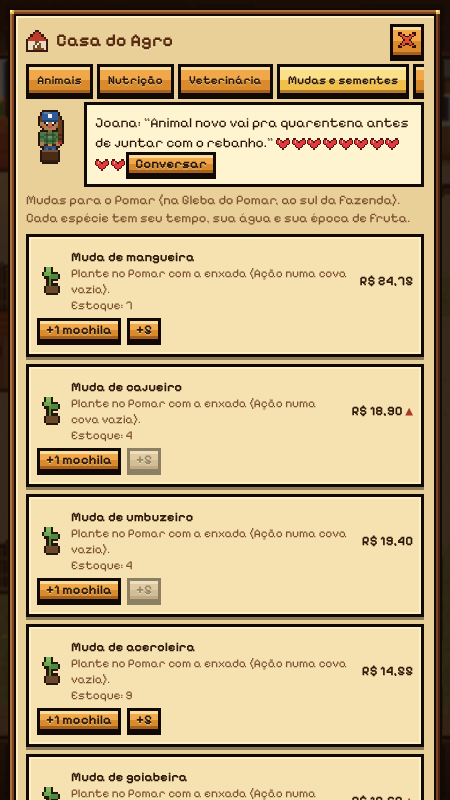
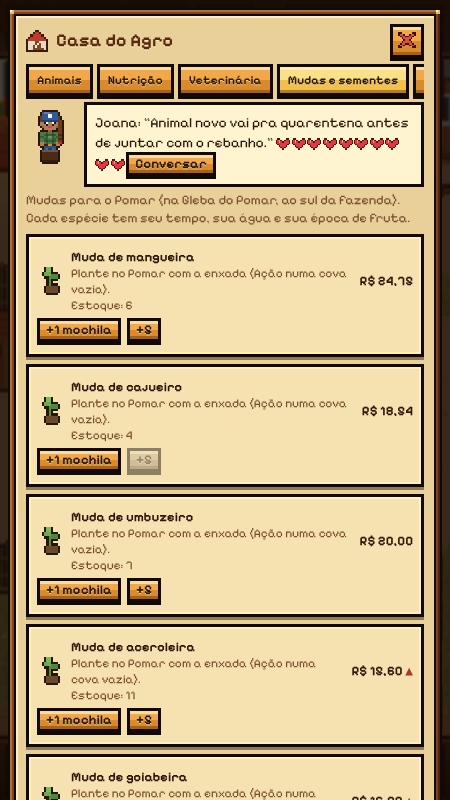
feat: IA dos animais por espécie, painel de produção e rodízio de raças dos comerciantes
Mega atualização (etapas 3, 4 e 5):
- IA: filhotes brincam perto da mãe, contato social entre animais da mesma
  espécie, cabras vão ao aprisco e porcos ao abrigo no calor e à noite,
  lotação gera estresse (menos ganho de peso, aviso); nível de detalhe em 3
  faixas por distância (60 fps com 40 animais no teste).
- Painel Produção (Menu): entradas e saídas dos últimos 7 dias pelo livro
  caixa, plantel e valor, produção estimada por dia, guia econômico por
  criação com investimento, custos, tempo, venda, rentabilidade e riscos.
- Comerciantes: Sr. Felipe e Sr. Ryan escolhem a raça-foco da semana por
  preferência, demanda por raça na região, estação, orçamento, histórico
  de vendas e novidade; o estoque segue o foco; notícia e motivo na
  negociação.
- Avisos na tela limitados a 4.

Design: design/level/pomar.md

Claude-Session: https://claude.ai/code/session_019QA4KfsXCLeXJkXGqj3TGQ

diff --git a/web/index.html b/web/index.html
@@ -359,7 +359,7 @@ const EMO_IC = { '🐄': 'cow', '🐕': 'dog', '🐎': 'horse', '🐴': 'horse',
 const noEmo = t => String(t).replace(EMO_RE, '').replace(/^\s+/, '');
 function emoHTML(h) { return String(h).replace(/✅|✔?/gu, '<b style="color:#2a7a2a">✓</b>').replace(/⭐/gu, '★').replace(/⚠?/gu, '<b style="color:#b02020">!</b>').replace(EMO_RE, m => { const k = m.trim().replace(/\uFE0F/g, ''); return EMO_IC[k] && typeof ic === 'function' ? ic(EMO_IC[k], 14) + ' ' : ''; }); }
 function say(t, ms) { const m = $('msg'); t = noEmo(t); m.textContent = t; m.classList.add('on'); msgT = ms || 3500; }
-function toast(t) { const d = document.createElement('div'); d.textContent = noEmo(t).replace(/^\s*([!✓])?/, '$1'); $('toast').appendChild(d); setTimeout(() => d.remove(), 2700); }
+function toast(t) { const box = $('toast'), d = document.createElement('div'); d.textContent = noEmo(t).replace(/^\s*([!✓])?/, '$1'); box.appendChild(d); while (box.children.length > 4) box.firstChild.remove(); setTimeout(() => d.remove(), 2700); } // no máximo 4 avisos na tela
 const shownTips = {};
 function tip(k, t) { if (S && S.flags['tip_' + k]) return; if (S) S.flags['tip_' + k] = 1; say(t, 6500); }
 
@@ -3810,11 +3810,11 @@ function dayTick() { storyCheck(); regionDay(); missionDay();
     if (a.sp === 'boi') {
       const eat = cl(a.dayFood / 100, 0, 1.2);
       let gain = (B.gain || 1) * (0.25 + 0.55 * eat) * (a.ration ? 1.45 : 1) * (a.area === 'conf' && built('cocho') ? 1.25 : 1) * (0.8 + a.gen / 250) * (a.hp / 100) * (1 + skill('pec') * 0.05) * (a.skills.includes('Ganho de Peso') ? 1.15 : 1) * (se && !a.ration ? 0.7 : 1);
-      if (a.age < 12) gain *= 1.6;
+      if (a.age < 12) gain *= 1.6; if (a.stress > 40) gain *= 0.8;
       if (a.food < 15) gain = -2.5;
       const cap = a.sex === 'M' ? 900 : 560; a.wt = Math.round(cl(a.wt + gain * 2.2, 30, cap) * 10) / 10;
     }
-    if (a.sp === 'porco') { const eat = cl(a.dayFood / 100, 0, 1.2), z = (PIGS[a.br] || {}).size || 1; let g = ((PIGS[a.br] || {}).gain || 1) * (0.3 + 0.7 * eat) * (a.ration ? 1.4 : 1) * (a.age < 14 ? 1 : 0.25) * (0.8 + a.gen / 250) * (a.hp / 100) * 7; if (a.food < 15) g = -1.5; a.wt = Math.round(cl(a.wt + g, 1.5, (a.sex === 'M' ? 170 : 155) * z) * 10) / 10; }
+    if (a.sp === 'porco') { const eat = cl(a.dayFood / 100, 0, 1.2), z = (PIGS[a.br] || {}).size || 1; let g = ((PIGS[a.br] || {}).gain || 1) * (0.3 + 0.7 * eat) * (a.ration ? 1.4 : 1) * (a.age < 14 ? 1 : 0.25) * (0.8 + a.gen / 250) * (a.hp / 100) * 7; if (a.stress > 40) g *= 0.8; if (a.food < 15) g = -1.5; a.wt = Math.round(cl(a.wt + g, 1.5, (a.sex === 'M' ? 170 : 155) * z) * 10) / 10; }
     a.cond = cl(a.cond + (a._ran || 0) / 400 - 0.4, 0, 100); a._ran = 0;
     a.dayFood = 0; a.ration = 0;
     if (a.lact > 0) a.lact--;
@@ -3843,7 +3843,7 @@ function dayTick() { storyCheck(); regionDay(); missionDay();
   // galinhas: pintinhos
   const hens = S.animals.filter(a => a.sp === 'galinha' && a.own === 'player'), cap = 10 + (built('galinheiro') ? 12 : 0);
   if (hens.some(h => h.sex === 'M') && hens.length < cap) for (const h of hens) if (h.sex === 'F' && h.skills.includes('Choca') && Math.random() < 0.08) { const c = mkAnimal('galinha', h.br, { age: 0, mae: h.n, x: h.x, y: h.y }); S.animals.push(c); toast('🐤 Nasceu um pintinho!'); break; }
-  pomarDay();
+  pomarDay(); crowdDay();
   // esterco: chiqueiro e aprisco enchem a esterqueira (sacos de 20 kg)
   { const pg = S.animals.filter(a => a.own === 'player' && a.sp === 'porco' && a.area === 'chiq').length, gt2 = S.animals.filter(a => a.own === 'player' && a.sp === 'cabra' && a.area === 'aprisco').length; S.esterco = Math.min(40, (S.esterco || 0) + pg * 0.35 + gt2 * 0.12); if (pg) S.dirt.chiq = cl((S.dirt.chiq || 0) + pg * 2, 0, 100); }
   // pastos: dias de descanso
@@ -3857,17 +3857,45 @@ function dayTick() { storyCheck(); regionDay(); missionDay();
   if (S.day % 7 === 1) payWorkers();
   if (S.day % 3 === 0) genCandidates();
   // NPCs: estoque de animais e favores vencidos
-  restockNpc('felipe', 'campos', 'boi', ['nelore', 'nelore', 'guzera', 'gir', 'tabapua']);
+  merchWeek(); restockNpc('felipe', 'campos', 'boi', ['nelore', 'nelore', 'guzera', 'gir', 'tabapua']);
   restockNpc('ryan', 'duarte', null, null);
   for (const id in S.npcs) { const s = S.npcs[id], q = s.quest; if (q && q.due < S.day) { s.quest = null; addFr(id, -30); remember(id, 'ficou chateado: favor não cumprido'); if (q.aid) S.animals = S.animals.filter(a => a.id !== q.aid); toast('😕 ' + NPCDEF[id].n + ' ficou chateado(a): favor não cumprido.'); } }
   if (S.event && S.event.day < S.day) S.event = null;
   P.en = cl(P.en, 0, 100);
 }
+/* ============ COMERCIANTES: rodízio de raças por estratégia (semanal) ============ */
+// Cada comerciante escolhe a raça-foco da semana pesando: preferência própria, demanda regional, estação,
+// orçamento, o que vendeu bem (histórico) e novidade. O estoque de animais dele passa a seguir o foco.
+const MERCH = {
+  felipe: { sp: 'boi', farm: 'campos', area: 'campos', brs: ['nelore', 'guzera', 'tabapua', 'gir', 'brahman', 'angus', 'senepol', 'girolando'], pref: { nelore: 1.15, guzera: 1.1, tabapua: 1.05, gir: 0.95, brahman: 1, angus: 0.8, senepol: 0.85, girolando: 0.8 }, style: 'tradicional: aposta no que conhece e só muda com bom motivo', stick: 1.06 },
+  ryan: { sp: 'equino', farm: 'duarte', area: 'duarte', brs: ['mm', 'qm', 'campolina', 'crioulo', 'pampa', 'nordestino', 'arabe', 'paint', 'appaloosa'], pref: { mm: 1.2, qm: 1.25, campolina: 1.05, crioulo: 0.95, pampa: 1, nordestino: 0.9, arabe: 0.85, paint: 1, appaloosa: 0.9 }, style: 'negociante: gosta de novidade e segue a vaquejada', stick: 1.05 }
+};
+function merchS(id) { S.merch = S.merch || {}; if (!S.merch[id]) S.merch[id] = { focus: MERCH[id].brs[0], since: 0, sold: {}, why: 'É o que ele sempre criou.', wk: -1 }; return S.merch[id]; }
+function merchSeasonF(id, br) { const se = season(), B = MERCH[id].sp === 'boi' ? CATTLE[br] : HORSES[br]; if (!B) return 1; if (MERCH[id].sp === 'boi') return se ? ((B.rust || 1) >= 1 ? 1.15 : 0.85) : ((B.gain || 1) > 1.08 ? 1.12 : 1); return se ? (B.rec > 20 ? 1.1 : 0.95) : (B.ac > 2.5 ? 1.1 : 1); }
+function merchWeek() {
+  const wk = typeof agroWeek === 'function' ? agroWeek() : Math.floor(S.day / 7); regionInit();
+  for (const id in MERCH) { const M0 = MERCH[id], st = merchS(id); if (st.wk === wk) continue; st.wk = wk;
+    const F = FARMS[M0.farm], money = S.region.farms[M0.farm] ? S.region.farms[M0.farm].money : 20000, dem = S.region.demand[M0.sp === 'boi' ? 'boi' : 'cavalo'] || 1;
+    const BD = S.region.bdem = S.region.bdem || {}; for (const br of M0.brs) BD[br] = cl((BD[br] || 1) + (Math.random() - 0.5) * 0.16 - ((BD[br] || 1) - 1) * 0.2, 0.75, 1.3); // procura por raça na região (sobe e desce)
+    let best = null, bs = -1, why = '';
+    for (const br of M0.brs) { const cost = M0.sp === 'boi' ? (CATTLE[br].p || 1) : (HORSES[br].cost / 20); if (cost > 1.25 && money < 30000) continue; // sem caixa para genética cara
+      const sold = st.sold[br] || 0, sc = M0.pref[br] * dem * merchSeasonF(id, br) * (1 + Math.min(0.6, sold * 0.2)) * (br === st.focus ? M0.stick : 1) * (0.9 + Math.random() * 0.25) * (br !== st.focus && wk - st.since >= 2 ? 1.2 : 1) * BD[br];
+      if (sc > bs) { bs = sc; best = br; why = sold >= 2 ? 'vendeu bem para você e a procura continua' : BD[br] > 1.15 ? 'a procura por essa raça subiu na região' : merchSeasonF(id, br) > 1.05 ? (season() ? 'aguenta melhor a seca' : 'engorda rápido nas águas') : br === st.focus ? 'continua dando resultado' : dem > 1.08 ? 'a região está procurando' : 'quer variar o plantel'; } }
+    if (best && best !== st.focus) { st.focus = best; st.since = wk; st.why = why; const nm = M0.sp === 'boi' ? CATTLE[best].n : HORSES[best].n; regionNews(`${NPCDEF[id].n} agora está trazendo ${nm}: ${why}.`); remember(id, 'passou a trabalhar com ' + nm); }
+    else if (best) st.why = why;
+    // troca parte do estoque pela raça-foco (vende um antigo, traz um novo)
+    const own = S.animals.filter(a => a.own === id && !a.mis), off = own.filter(a => a.br !== st.focus);
+    if (off.length > 2 && own.length >= 4 && Math.random() < 0.6) { const a = pick(off); S.animals = S.animals.filter(b => b !== a); }
+    if (S.animals.filter(a => a.own === id).length < 7) { const sp = M0.sp === 'boi' ? 'boi' : 'cavalo', a = mkAnimal(sp, st.focus, { own: id, age: rint(14, 40) }), q = randIn(M0.area); a.x = q[0]; a.y = q[1]; S.animals.push(a); }
+  }
+}
 function restockNpc(id, area, sp, brs) {
   const own = S.animals.filter(a => a.own === id);
   if (own.length >= 6) return;
   let a;
-  if (sp === 'boi') a = mkAnimal('boi', pick(brs), { own: id, age: rint(14, 40) });
+  const fc = S.merch && S.merch[id] ? S.merch[id].focus : null;
+  if (sp === 'boi') a = mkAnimal('boi', fc && Math.random() < 0.7 ? fc : pick(brs), { own: id, age: rint(14, 40) });
+  else if (fc && HORSES[fc] && Math.random() < 0.6) a = mkAnimal('cavalo', fc, { own: id });
   else { const r = Math.random(); a = r < .55 ? mkAnimal('cavalo', pick(Object.keys(HORSES)), { own: id }) : r < .8 ? mkAnimal('jumento', pick(Object.keys(DONKEYS)), { own: id }) : mkAnimal('burro', pick(Object.keys(MULES)), { own: id, sex: 'M' }); }
   const p = randIn(area); a.x = p[0]; a.y = p[1]; S.animals.push(a);
 }
@@ -3919,6 +3947,7 @@ function decide(a) {
   const herd = a.sp === 'boi' || a.sp === 'cabra', hc = herd ? herdCenter(a) : null, far = hc && hyp(hc.x - a.x, hc.y - a.y) > 56;
   // noite: o rebanho deita junto (quem está longe vai para perto dos outros antes de deitar)
   if (h >= 20.5 || h < 5) { if (far) return setGo(a, { x: hc.x + rnd(-18, 18), y: hc.y + rnd(-10, 10) }, 'rest', rnd(30, 60)); a._st = 'rest'; a._t = rnd(30, 60); return; }
+  if ((a.sp === 'cabra' && a.area === 'aprisco') || (a.sp === 'porco' && a.area === 'chiq')) { const hot = h > 11 && h < 15 && !isRain(); if (hot || h >= 19.5 || h < 5.5 || isRain()) { if (Math.random() < 0.6) { const sh = a.sp === 'cabra' ? [53 + Math.random() * 3, 104.3] : [44.5 + Math.random() * 4, 98.3]; return setGo(a, { x: sh[0] * TS, y: sh[1] * TS }, 'rest', rnd(15, 40)); } } }
   if (a.sp === 'porco') { if ((h > 10.5 && h < 16 && !isRain() && Math.random() < 0.5) || (a.food > 85 && Math.random() < 0.4)) { const m = findMud(a); if (m) return setGo(a, m, 'rest', rnd(14, 26)); } if (Math.random() < 0.35) { const t2 = [a.x + rnd(-30, 30), a.y + rnd(-20, 20)]; if (!a.area || areaAt(t2[0], t2[1]) === a.area) return setGo(a, { x: t2[0], y: t2[1] }, 'graze', rnd(4, 9)); } } // fuçar
   // chuva forte e tempestade: procura abrigo debaixo de árvore
   if (S.weather === 'tempestade' || (isRain() && Math.random() < 0.35)) { const s = findShade(a); if (s) return setGo(a, s, 'idle', rnd(12, 24)); }
@@ -3927,6 +3956,10 @@ function decide(a) {
   if (a.water < (hot ? 55 : 40)) { const w = findWater(a); if (w) return setGo(a, w, 'drink', 3); }
   if (herd && a.water < 78) { const l = herdLeader(a); if (l && l !== a && l._st === 'go' && l._then === 'drink') { const w = findWater(a); if (w) return setGo(a, w, 'drink', 3); } }
   if (a.food < 75) { const f = findFeed(a); if (f) return setGo(a, f, 'eat', 4); }
+  // filhote brinca: corrida curta perto da mãe ou dos irmãos
+  if (a.age < 8 && a.sp !== 'galinha' && Math.random() < 0.18) { const m = motherOf(a) || a; const t = [m.x + rnd(-40, 40), m.y + rnd(-24, 24)]; if (!a.area || areaAt(t[0], t[1]) === a.area) { a._st = 'play'; a._tg = t; a._t = rnd(1.5, 3); return; } }
+  // contato social: dois animais da mesma espécie se encontram e ficam um de frente para o outro
+  if (a.age >= 8 && Math.random() < 0.1) { const b = near(a.x, a.y, 34).find(o => o !== a && o.sp === a.sp && o.own === a.own && !o._hid && (o._st === 'idle' || o._st === 'graze' || !o._st)); if (b) { a._st = 'social'; a._mate = b.id; a._t = rnd(3, 6); b._st = 'social'; b._mate = a.id; b._t = a._t; if (a.sp === 'porco' && AU.oink) AU.oink(a.x, a.y, 1.1); else if (a.sp === 'cabra' && AU.bleat && Math.random() < 0.4) AU.bleat(a.x, a.y, 1); return; } }
   // filhote acompanha a mãe
   if (a.age < 8) { const m = motherOf(a); if (m && !m._hid && hyp(m.x - a.x, m.y - a.y) > 30) return setGo(a, { x: m.x + rnd(-10, 10), y: m.y + rnd(4, 10) }, m._st === 'rest' ? 'rest' : 'graze', rnd(4, 8)); }
   // barriga cheia: deita para ruminar
@@ -4333,7 +4366,7 @@ function updAnimals(dt, gm) {
   const cx = cam.x + VW() / 2, cy = cam.y + VH() / 2, R = Math.max(VW(), VH()) * 0.75 + 160;
   for (const a of S.animals) {
     const far = hyp(a.x - cx, a.y - cy) > R && a.id !== P.mnt && lasso.t !== a && P.lead !== a.id && S.cart.hitch !== a.id && a._st !== 'route' && a.sp !== 'cao';
-    if (far) { a._lod = (a._lod || 0) + dt; a._lgm = (a._lgm || 0) + gm; if (a._lod < 0.2) continue; updAnimal(a, a._lod, a._lgm, th); a._lod = 0; a._lgm = 0; continue; }
+    if (far) { a._lod = (a._lod || 0) + dt; a._lgm = (a._lgm || 0) + gm; if (a._lod < (hyp(a.x - cx, a.y - cy) > R * 2.2 ? 1 : 0.2)) continue; updAnimal(a, a._lod, a._lgm, th); a._lod = 0; a._lgm = 0; continue; }
     if (a._lod) { gm += 0; }
     updAnimal(a, dt, gm + (a._lgm || 0), th); a._lgm = 0; a._lod = 0; separate(a);
   }
@@ -4476,6 +4509,8 @@ function calmStep(a, dt, gm) {
     case 'rest': a._pose = a.sp === 'boi' || a.sp === 'cabra' || a.sp === 'porco' ? 'lie' : 'idle'; if (a._t <= 0) a._st = null; if ((hour() >= 20.5 || hour() < 5) && a._t <= 0) { a._st = 'rest'; a._t = 20; } return;
     case 'drink': a._pose = 'drink'; if (a._t <= 0) a._st = null; return;
     case 'eat': a._pose = 'graze'; if (a._t <= 0) a._st = null; return;
+    case 'play': { const r = stepTo(a, a._tg[0], a._tg[1], animalSpeed(a) * 2.6, dt); a._pose = 'run'; a._run = 1; a._vx = (a._hx || 0) * a._mv; a._vy = (a._hy || 0) * a._mv; if (r === true || r === 'stuck' || a._t <= 0) { a._run = 0; a._st = Math.random() < 0.5 ? null : 'idle'; a._t = rnd(1, 3); } return; }
+    case 'social': { a._pose = 'idle'; const b = byId(a._mate); if (b) { const dx = b.x - a.x; a.f = dx > 0 ? 1 : -1; } if (a._t <= 0) { a._st = null; a._mate = null; } return; }
     case 'idle': a._pose = 'idle'; if (a._curious) { const dx = P.x - a.x, dy = P.y - a.y; a._face = Math.abs(dx) > Math.abs(dy) ? (dx > 0 ? 3 : 2) : (dy > 0 ? 0 : 1); a.f = dx > 0 ? 1 : -1; } if (a._t <= 0) { a._st = null; a._curious = 0; a._face = null; } return;
     case 'follow': case 'come': case 'route': return; // tratados em updAnimal
     default: if (!traitCalm(a)) decide(a); a._pose = 'idle';
@@ -5397,7 +5432,7 @@ A.bagSel = v => { M.sel = v; renderModal(); AU.click(); };
 A.eat = v => { const it = IT[v]; if (!has(v)) return; closeModal(); act('eat', 0.9, null, () => { useInv(v); P.en = cl(P.en + (it.en || 0), 0, 100); P.fo = cl(P.fo + (it.fo || 0), 0, 100); AU.munch(); toast(`+${it.en || 0} energia · +${it.fo || 0} fome`); }, { zoom: 1.2 }); };
 A.drop = v => { useInv(v); renderModal(); };
 /* ---------- menu principal ---------- */
-const MTABS = [['vaq', 'Vaqueiro', 'hat'], ['inv', 'Mochila', 'bag'], ['ani', 'Animais', 'cow'], ['faz', 'Fazenda', 'farm'], ['map', 'Mapa', 'map'], ['ban', 'Banco', 'bank'], ['obr', 'Obras', 'build'], ['peo', 'Peões', 'worker'], ['rel', 'Relações', 'heart'], ['cfg', 'Config.', 'gear']];
+const MTABS = [['vaq', 'Vaqueiro', 'hat'], ['inv', 'Mochila', 'bag'], ['ani', 'Animais', 'cow'], ['faz', 'Fazenda', 'farm'], ['pro', 'Produção', 'bank'], ['map', 'Mapa', 'map'], ['ban', 'Banco', 'bank'], ['obr', 'Obras', 'build'], ['peo', 'Peões', 'worker'], ['rel', 'Relações', 'heart'], ['cfg', 'Config.', 'gear']];
 function openMenu(tab) { showModal('', MTABS, tab || 'vaq', menuTab); }
 function menuTab(t) {
   if (t === 'vaq') {
@@ -5425,6 +5460,7 @@ function menuTab(t) {
   if (t === 'ban') return bankRemote();
   if (t === 'obr') return obrasTab();
   if (t === 'peo') return workersTab();
+  if (t === 'pro') return prodHTML();
   if (t === 'rel') {
     return '<p class="mut">A amizade cresce com conversas diárias, presentes, favores, música e churrascos.</p>' + Object.keys(NPCDEF).map(id => { const d = NPCDEF[id], s = npcState(id), e = npcs.find(n => n.id === id); const loc = e ? (e.hidden ? (e.act === 'missa' ? 'na missa' : 'em casa') : (SPOTS[e.spot] ? e.spot.replace('_', ' ') : '')) : '';
       return `<div class="card"><div class="dlg"><div>${charImg(d.ap, 2)}</div><div style="flex:1"><b>${d.n}</b> <span class="mut">${d.role}${d.farm ? ' · ' + d.farm : ''}</span><br>${hrt(hearts(id))}<br><span class="mut">Agora: ${loc}${s.quest ? ' · 📜 favor pendente' : ''}</span>${NPC_LORE[id] ? `<br><span class="mut">${esc(NPC_LORE[id].split('. ')[0])}.</span>` : ''}${s.mem.slice(0, 2).map(m => `<br><span class="mut">• Dia ${m.d}: ${esc(m.t)}</span>`).join('')}</div></div></div>`; }).join('') + `<div class="card"><b>${ic('heart', 14)} Confraternização</b><p>Convide os amigos (1+ coração) para um churrasco na sua fazenda às 18h.</p>${S.event ? `<p>Churrasco marcado para o dia ${S.event.day} com ${S.event.guests.map(g => NPCDEF[g].n).join(', ')}.</p>` : btn('Marcar churrasco', 'invite')}</div>`;
@@ -5704,7 +5740,7 @@ function tradeView(id) {
   const theirs = S.animals.filter(a => a.own === id);
   const mine = myAnimals().filter(a => !a.main && (d.sells === 'boi' ? a.sp === 'boi' : (a.sp === 'cavalo' || a.sp === 'jumento' || a.sp === 'burro')));
   const q = npcState(id).quest;
-  let h = `<h3>Negociar com ${d.n}</h3><p class="mut">Amizade dá desconto: ${hm} ♥ → compra ${Math.round((disc - 1) * 100)}% / venda ${Math.round((buyM - 1) * 100)}%. Animais comprados chegam amanhã às 6h no Recebimento.</p>`;
+  let h = `<h3>Negociar com ${d.n}</h3>${MERCH[id] ? `<div class="card">📦 <b>Estoque desta semana:</b> foco em ${esc((MERCH[id].sp === 'boi' ? CATTLE : HORSES)[merchS(id).focus].n)} — ${esc(merchS(id).why)}.<br><span class="mut">Estilo: ${esc(MERCH[id].style)}. O estoque muda toda segunda-feira.</span></div>` : ''}<p class="mut">Amizade dá desconto: ${hm} ♥ → compra ${Math.round((disc - 1) * 100)}% / venda ${Math.round((buyM - 1) * 100)}%. Animais comprados chegam amanhã às 6h no Recebimento.</p>`;
   h += '<b>Animais dele</b>' + theirs.map(a => `<div class="card ${M.tsel.theirs === a.id ? 'sel' : ''}" data-a="tSelT" data-v="${a.id}"><div class="row sp">${animalImg(a, 1)}<span style="flex:1">${esc(a.n)} · ${catName(a)} ${breedOf(a).n}<br><span class="stars">${starStr(stars(a))}</span></span><b>${fmt(animalValue(a) * disc)}</b></div></div>`).join('');
   h += '<b>Seus animais</b>' + (mine.map(a => `<div class="card ${M.tsel.mine === a.id ? 'sel' : ''}" data-a="tSelM" data-v="${a.id}"><div class="row sp">${animalImg(a, 1)}<span style="flex:1">${esc(a.n)} · ${catName(a)} ${breedOf(a).n}<br><span class="stars">${starStr(stars(a))}</span>${q && q.k === 'animal' && a.sp === q.sp && stars(a) >= q.st ? ' <span class="tag">favor!</span>' : ''}</span><b>${fmt(animalValue(a) * buyM)}</b></div></div>`).join('') || '<p class="mut">Nenhum animal que ele compre.</p>');
   const T = byId(M.tsel.theirs), Mi = byId(M.tsel.mine);
@@ -5714,7 +5750,7 @@ function tradeView(id) {
 }
 A.tSelT = v => { M.tsel.theirs = +v; renderModal(); };
 A.tSelM = v => { M.tsel.mine = +v; renderModal(); };
-function npcBuy(id, a, price) { if (!pay(price, 'Compra de ' + a.n + ' (' + NPCDEF[id].n + ')')) return false; S.delivery.push({ id: a.id, day: S.day + 1, to: 'receb' }); a.own = 'delivery'; a.x = -999; a.y = -999; addFr(id, 15); npcState(id).trades++; remember(id, 'vendeu ' + a.n + ' para você'); return true; }
+function npcBuy(id, a, price) { if (!pay(price, 'Compra de ' + a.n + ' (' + NPCDEF[id].n + ')')) return false; if (MERCH[id]) { const st = merchS(id); st.sold[a.br] = (st.sold[a.br] || 0) + 1; } S.delivery.push({ id: a.id, day: S.day + 1, to: 'receb' }); a.own = 'delivery'; a.x = -999; a.y = -999; addFr(id, 15); npcState(id).trades++; remember(id, 'vendeu ' + a.n + ' para você'); return true; }
 function npcSell(id, a, price) { const q = npcState(id).quest; if (lasso.t === a) lasso.t = null; if (P.lead === a.id) P.lead = null; if (S.cart.hitch === a.id) S.cart.hitch = null; a.own = id; const p = randIn(NPCDEF[id].area); a.x = p[0]; a.y = p[1]; a._st = null; receive(price, 'Venda de ' + a.n + ' para ' + NPCDEF[id].n); S.stats.sold++; addFr(id, 15); remember(id, 'comprou ' + a.n + ' de você'); if (q && q.k === 'animal' && a.sp === q.sp && stars(a) >= q.st) { M.txt = finishQuest(id); } }
 A.tBuy = () => { const id0 = M.npc, a0 = byId(M.tsel.theirs); if (npcState(id0).noDeal === S.day) { M.txt = 'Hoje eu não negocio mais, já falei.'; M.sub = null; return renderModal(); } if (a0) return openHaggle(id0, a0, false); const id = M.npc, hm = hearts(id), a = byId(M.tsel.theirs); if (npcBuy(id, a, animalValue(a) * (1.1 - hm * 0.015))) { M.txt = 'Negócio fechado! Amanhã cedo ' + a.n + ' tá no seu Recebimento.'; M.sub = null; } renderModal(); };
 A.tSell = () => { const id0 = M.npc, a0 = byId(M.tsel.mine); if (npcState(id0).noDeal === S.day) { M.txt = 'Hoje eu não negocio mais, já falei.'; M.sub = null; return renderModal(); } if (a0) return openHaggle(id0, a0, true); const id = M.npc, hm = hearts(id), a = byId(M.tsel.mine); npcSell(id, a, animalValue(a) * (0.88 + hm * 0.012)); if (!M.txt || M.txt.indexOf('obrigado') < 0) M.txt = 'Bom animal! Fechado.'; M.sub = null; renderModal(); };
@@ -5765,6 +5801,8 @@ function pomarApplyObj() { pomarS().forEach((q, i) => { const pl = POMAR_PLOTS[i
 function fruitStage(q) { const F = FRUITS[q.k]; return q.g < F.grow * 0.35 ? 0 : q.g < F.grow ? 1 : 2; }
 function fruitInSeason(F) { return F.safra === 'ano' || (F.safra === 'seca') === !!season(); }
 function pomarNeighborsBig(i) { const pl = POMAR_PLOTS[i]; let n = 0; pomarS().forEach((q, j) => { if (!q || j === i || !FRUITS[q.k].big) return; const o = POMAR_PLOTS[j]; if (Math.abs(o.tx - pl.tx) + Math.abs(o.ty - pl.ty) === 3) n++; }); return n; }
+function areaCap(k) { const r = AREAS[k].r, t = (r[2] - r[0] - 1) * (r[3] - r[1] - 1); return Math.max(2, Math.floor(t / (AREAS[k].k === 'pasto' ? 9 : AREAS[k].k === 'chiq' ? 4 : 6))); }
+function crowdDay() { S.crowd = {}; for (const k of AKEYS) { if (AREAS[k].k === 'npc' || AREAS[k].k === 'pomar') continue; const L = S.animals.filter(a => a.own === 'player' && a.area === k && a.sp !== 'cao'); const cap = areaCap(k); if (L.length > cap) { S.crowd[k] = L.length + '/' + cap; L.forEach(a => { a.hap = cl(a.hap - 4, 0, 100); a.stress = Math.min(100, (a.stress || 0) + 12); }); } else L.forEach(a => { a.stress = Math.max(0, (a.stress || 0) - 10); }); } const ks = Object.keys(S.crowd); if (ks.length) toast('⚠ Lotado: ' + ks.map(k => AREAS[k].n + ' (' + S.crowd[k] + ')').join(', ') + '. Os animais ficam estressados e engordam menos.'); }
 function pomarDay() {
   const rain = isRain(); let irr = 0;
   pomarS().forEach(q => { if (!q) return; const F = FRUITS[q.k];
@@ -5800,6 +5838,27 @@ A.pomarHarvest = v => { const i = +v, pl = POMAR_PLOTS[i], q = pomarS()[i]; if (
   q.f = 0; q.poda = 0; S.stats.fruits = (S.stats.fruits || 0) + bag + dep; P.en = Math.max(0, P.en - 3); toast('🧺 ' + (bag + dep) + ' ' + IT[it].n.split(' (')[0].toLowerCase() + (dep ? ' (' + dep + ' foram para o depósito)' : '')); questEvent && questEvent('harvest', q.k, bag + dep);
   S.firsts = S.firsts || {}; if (!S.firsts.colheita) { S.firsts.colheita = 1; setTimeout(() => typeof csPrimeiraColheita === 'function' && csPrimeiraColheita(F), 500); } }); };
 A.irrigBuy = () => { if (S.irrig) return; if (!pay(2800 * priceMul(), 'Irrigação por gotejamento do pomar')) return; S.irrig = 1; toast('💧 Irrigação instalada: as árvores do pomar recebem água todo dia (gasta água do reservatório).'); renderModal(); };
+/* ============ PAINEL DE PRODUÇÃO E RENTABILIDADE ============ */
+// Estimativas por espécie (custos e tempos do próprio jogo). Não é promessa de lucro: depende de pasto, água, saúde, preço e sorte.
+const ECON = {
+  boi: { inv: 'Garrote/novilha: R$ 3 a 7 mil (arroba do dia)', food: 'Pasto + sal mineral: ~R$ 1/dia; na seca, ração ou palma: ~R$ 4/dia', man: 'Vacina (R$ 18 a cada 28 dias), vermífugo, cerca e água', grow: 'Adulto com ~24 dias de jogo; ganha peso todo dia', prod: 'Bezerros (gestação de 7 dias); leite com Sala de Ordenha', sell: 'Por arroba (peso/15 × arroba do dia), no curral, embarcadouro ou leilão', rent: 'Média e segura no longo prazo; boa na engorda das águas', risk: 'Seca sem reserva de comida, pasto rapado, doença' },
+  porco: { inv: 'Leitão: R$ 160 a 250 · matriz: R$ 900 a 1.300', food: 'Ração de suínos: ~R$ 6 a 10/dia por porco em engorda', man: 'Limpar o chiqueiro, água à vontade, vermífugo', grow: 'Leitão a ~100 kg em ~14 dias com boa ração', prod: 'Ninhada de 5 a 12 leitões (gestação de 4 dias) + esterco diário', sell: 'Peso vivo: R$ 7,50/kg × qualidade', rent: 'Alta rotação: lucro rápido se a ração não faltar', risk: 'Ração cara na seca, chiqueiro lotado (estresse), doença' },
+  cabra: { inv: 'Cabra: R$ 400 a 1.200 · bode reprodutor: até R$ 1.500', food: 'Pasto de caatinga, palma e pouca ração: ~R$ 1/dia', man: 'Aprisco seco, vermífugo, água limpa', grow: 'Adulta com ~12 dias; cabrito cresce rápido', prod: 'Leite de cabra diário (Saanen e Anglo-Nubiana dão mais), cabritos (gêmeos são comuns), esterco', sell: 'Cabritos e reprodutores; leite a R$ 5,50–6,50/L', rent: 'Boa para quem começa: barata e rústica no sertão', risk: 'Onça-parda na mata, verme, raças leiteiras sofrem no sol' },
+  galinha: { inv: 'R$ 55 a 70 por ave', food: 'Milho: centavos por dia', man: 'Galinheiro fechado à noite', grow: 'Pintinho adulto em ~6 dias', prod: 'Ovos todo dia (poedeiras rendem mais) e pintinhos com galo e choca', sell: 'Ovos no Mercadinho; aves', rent: 'Pequena, mas garante dinheiro todo dia', risk: 'Raposa e gavião, falta de milho' },
+  cavalo: { inv: 'R$ 6 a 15 mil conforme a raça', food: 'Pasto, milho e sal: ~R$ 3/dia', man: 'Escovar, selar, treinar, ferrar', grow: 'Adulto com ~30 dias; potro precisa de égua e garanhão (Estrebaria)', prod: 'Trabalho na lida, vaquejada, potros', sell: 'Leilão de cavalos e criadores (Sr. Ryan, Dona Graça)', rent: 'Lenta, mas um cavalo campeão vale muito', risk: 'Investimento alto, treino demorado' },
+  jumento: { inv: 'Jumento: ~R$ 1.800 · muar: ~R$ 4.200', food: 'Pasto e pouco milho', man: 'Rústico', grow: '~30 dias', prod: 'Carga e carroça; jumento com égua dá burro e mula', sell: 'Leilão de muares e vizinhos', rent: 'Ferramenta de trabalho: economiza frete e tempo', risk: 'Baixo' },
+  fruta: { inv: 'Mudas de R$ 8 (mamão) a R$ 25 (manga) + enxada e regador', food: 'Água: regador e galões ou irrigação (R$ 2.800 uma vez)', man: 'Rega na seca, adubo de esterco, poda', grow: 'Mamão 8 dias; banana 10; manga 22; umbu 24', prod: 'Colheitas repetidas na safra (manga e umbu nas águas, caju e laranja na seca, outras o ano todo)', sell: 'Mercadinho; fora da safra vale 35% a mais', rent: 'Renda contínua depois de adulta, quase sem custo com irrigação', risk: 'Seca sem rega, copas grandes muito juntas' }
+};
+function prodHTML() {
+  const wk = S.ledger.filter(l => l.d >= S.day - 6), inc = wk.filter(l => l.v > 0).reduce((t, l) => t + l.v, 0), exp = -wk.filter(l => l.v < 0).reduce((t, l) => t + l.v, 0);
+  let h = `<div class="card"><b>Últimos 7 dias</b><br>Entradas: <b style="color:#2a7a3a">${fmt(inc)}</b> · Saídas: <b style="color:#a83a2a">${fmt(exp)}</b> · Saldo: <b>${fmt(inc - exp)}</b>${wk.length ? '<br><span class="mut">' + wk.slice(0, 6).map(l => esc(l.desc.replace(/ \((dinheiro|débito)\)/, '')) + ' ' + (l.v > 0 ? '+' : '') + fmt(l.v)).join(' · ') + '</span>' : ''}</div>`;
+  const mine = myAnimals(), sp = ['boi', 'porco', 'cabra', 'galinha', 'cavalo', 'jumento', 'burro'].filter(k => mine.some(a => a.sp === k));
+  const lact = mine.filter(a => a.sp === 'cabra' && a.sex === 'F' && a.lact > 0), hens = mine.filter(a => a.sp === 'galinha' && a.sex === 'F' && a.age >= 6).length, trees = pomarS().filter(q => q && fruitStage(q) === 2).length;
+  h += '<h3>Seu plantel hoje</h3>' + (sp.map(k => { const L = mine.filter(a => a.sp === k), v = L.reduce((t, a) => t + animalValue(a), 0); return `<div class="row sp"><span>${SPN[k]}: <b>${L.length}</b></span><span class="mut">${fmt(v)}</span></div>`; }).join('') || '<p class="mut">Sem animais ainda.</p>');
+  h += `<div class="card"><b>Produção estimada por dia</b><br>🥚 Ovos: ~${Math.round(hens * 0.85)} · 🥛 Leite de cabra: ~${lact.reduce((t, a) => t + ((GOATS[a.br] || {}).milk || 0.6) * 2.2, 0).toFixed(1)} L${built('ordenha') ? ' · leite de vaca na ordenha' : ''} · 💩 Esterco: ~${(mine.filter(a => a.sp === 'porco' && a.area === 'chiq').length * 0.35 + mine.filter(a => a.sp === 'cabra' && a.area === 'aprisco').length * 0.12).toFixed(1)} saco · 🌳 Árvores produzindo: ${trees}${S.crowd && Object.keys(S.crowd).length ? '<br><span style="color:#a83a2a">⚠ Lotado: ' + Object.keys(S.crowd).map(k => AREAS[k].n).join(', ') + '</span>' : ''}</div>`;
+  h += '<h3>Guia econômico por criação</h3><p class="mut">Estimativas do jogo. Lucro depende de comida, água, saúde, preço do dia e tempo.</p>' + Object.entries(ECON).map(([k, e]) => `<details class="card"><summary><b>${k === 'fruta' ? 'Pomar' : SPN[k] || k}</b> — ${esc(e.rent)}</summary><p class="mut"><b>Investimento:</b> ${esc(e.inv)}<br><b>Alimentação:</b> ${esc(e.food)}<br><b>Manutenção:</b> ${esc(e.man)}<br><b>Crescimento:</b> ${esc(e.grow)}<br><b>Produção e reprodução:</b> ${esc(e.prod)}<br><b>Venda:</b> ${esc(e.sell)}<br><b>Riscos:</b> ${esc(e.risk)}</p></details>`).join('');
+  return h;
+}
 /* ============ CASA DO AGRO: loja agropecuária completa (estoque semanal, preço regional, animais com ficha) ============ */
 const AGRO_ITEMS = {
   nut: ['racao', 'racaoPorco', 'milho', 'farelo', 'suplemento', 'sal', 'racaoCao'],
